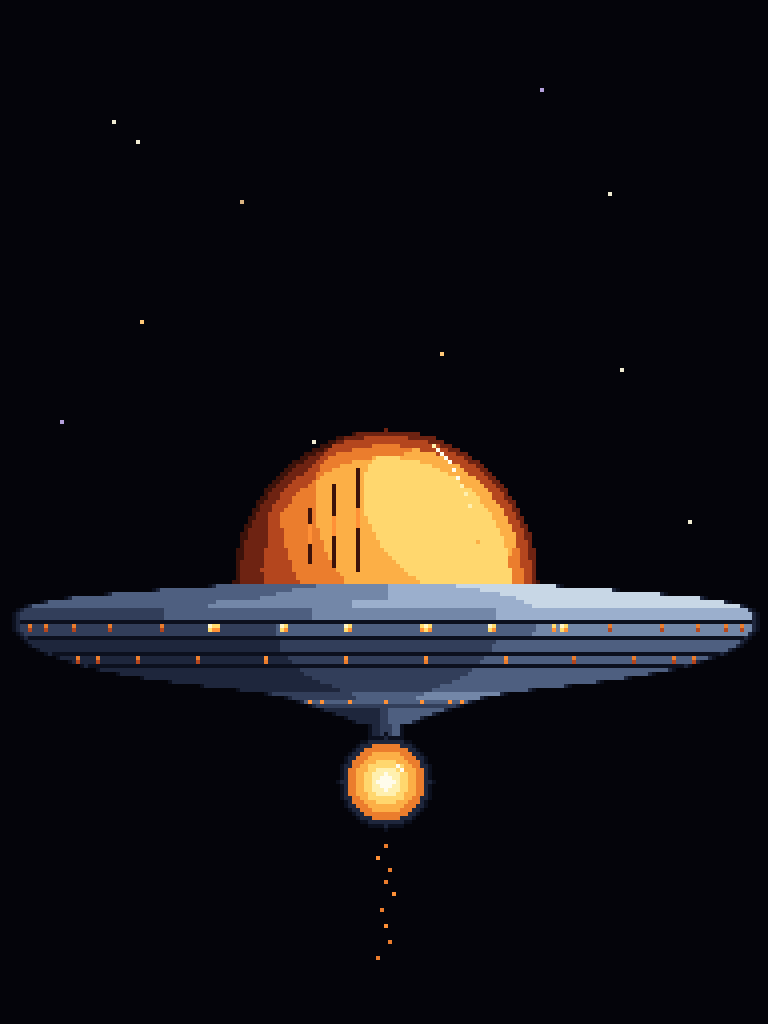
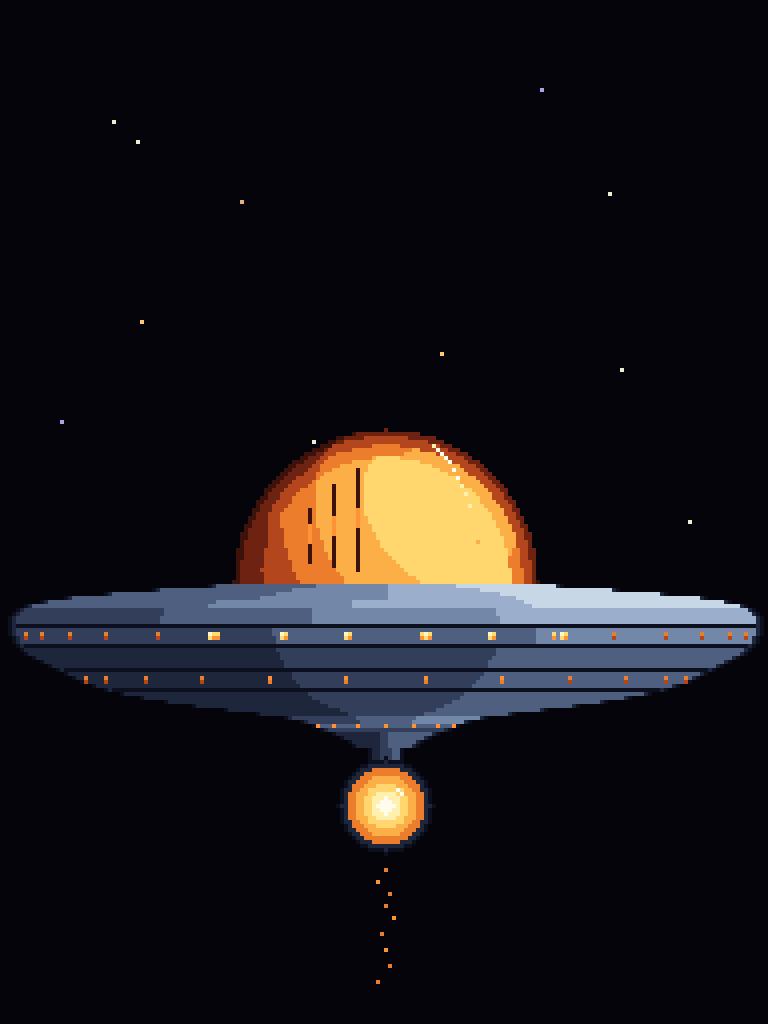
Make UFO disc 33 rows tall
Adds rows to body_hi, body_lights, body_dark, and body_lights2 bands so the
disc body (rim flare through taper) is 33 rows tall instead of 27. Light
rows are now 4 rows wide each with thicker seams between, giving the
saucer more visible stacked panel layers. Engine pod and sparks shifted
down accordingly.

Changed region(s): [[0.0, 0.5938, 1.0, 0.875]]

diff --git a/build_ufo.py b/build_ufo.py
@@ -138,7 +138,7 @@ for sx, ys, ye in slit_positions:
 
 # ── SAUCER ──────────────────────────────────────────
 saucer_rows = [
-    # y, hw, role
+    # y, hw, role  — 33 rows of disc (146-178), then lower panel/neck below
     (146, 44, 'rim_flare'),
     (147, 58, 'rim_flare'),
     (148, 70, 'rim_flare'),
@@ -147,33 +147,39 @@ saucer_rows = [
     (151, 90, 'rim_top'),
     (152, 92, 'body_hi'),
     (153, 93, 'body_hi'),
-    (154, 93, 'body_hi'),
-    (155, 93, 'seam'),
-    (156, 93, 'body_lights'),
-    (157, 93, 'body_lights'),
-    (158, 92, 'body_lights'),
-    (159, 91, 'seam'),
-    (160, 90, 'body_dark'),
-    (161, 89, 'body_dark'),
-    (162, 87, 'body_dark'),
-    (163, 85, 'seam'),
-    (164, 82, 'body_lights2'),
-    (165, 79, 'body_lights2'),
-    (166, 76, 'seam'),
-    (167, 72, 'taper'),
-    (168, 67, 'taper'),
-    (169, 61, 'taper'),
-    (170, 54, 'taper'),
-    (171, 46, 'taper'),
-    (172, 37, 'taper'),
-    (173, 30, 'lower_panel'),
-    (174, 25, 'lower_panel'),
-    (175, 22, 'lower_lights'),
-    (176, 19, 'lower_dark'),
-    (177, 16, 'neck'),
-    (178, 13, 'neck'),
-    (179, 10, 'neck'),
-    (180, 8,  'neck'),
+    (154, 94, 'body_hi'),
+    (155, 94, 'body_hi'),
+    (156, 94, 'seam'),
+    (157, 94, 'body_lights'),
+    (158, 94, 'body_lights'),
+    (159, 93, 'body_lights'),
+    (160, 93, 'body_lights'),
+    (161, 92, 'seam'),
+    (162, 91, 'body_dark'),
+    (163, 90, 'body_dark'),
+    (164, 88, 'body_dark'),
+    (165, 86, 'body_dark'),
+    (166, 84, 'body_dark'),
+    (167, 82, 'seam'),
+    (168, 80, 'body_lights2'),
+    (169, 78, 'body_lights2'),
+    (170, 76, 'body_lights2'),
+    (171, 73, 'body_lights2'),
+    (172, 70, 'seam'),
+    (173, 66, 'taper'),
+    (174, 61, 'taper'),
+    (175, 55, 'taper'),
+    (176, 48, 'taper'),
+    (177, 40, 'taper'),
+    (178, 32, 'taper'),
+    (179, 25, 'lower_panel'),
+    (180, 21, 'lower_panel'),
+    (181, 18, 'lower_lights'),
+    (182, 16, 'lower_dark'),
+    (183, 13, 'neck'),
+    (184, 11, 'neck'),
+    (185, 9,  'neck'),
+    (186, 8,  'neck'),
 ]
 
 def shade(role, dx, hw):
@@ -238,47 +244,47 @@ for y, hw, role in saucer_rows:
 n_lights = 16
 for i in range(n_lights):
     theta = math.pi * (i + 0.5) / n_lights - math.pi / 2  # -pi/2 .. +pi/2
-    lx = HCX + int(round(89 * math.sin(theta)))
+    lx = HCX + int(round(90 * math.sin(theta)))
     edge_dim = abs(math.sin(theta))
     if edge_dim < 0.6:
-        put(lx, 156, WIN_Y)
-        put(lx, 157, WIN_O)
+        put(lx, 158, WIN_Y)
+        put(lx, 159, WIN_O)
     else:
-        put(lx, 156, ORANGE)
-        put(lx, 157, RED)
+        put(lx, 158, ORANGE)
+        put(lx, 159, RED)
 
 # Brighter front-cluster windows (cabin lights) on main body row
 for dxc in (-44, -26, -10, 10, 26, 44):
     x = HCX + dxc
-    put(x, 156, WIN_W)
-    put(x + 1, 156, WIN_Y)
-    put(x, 157, WIN_Y)
-    put(x + 1, 157, WIN_O)
+    put(x, 158, WIN_W)
+    put(x + 1, 158, WIN_Y)
+    put(x, 159, WIN_Y)
+    put(x + 1, 159, WIN_O)
 
 # Second row of lights on the second body band
 n_mid = 12
 for i in range(n_mid):
     theta = math.pi * (i + 0.5) / n_mid - math.pi / 2
-    lx = HCX + int(round(78 * math.sin(theta)))
+    lx = HCX + int(round(76 * math.sin(theta)))
     edge_dim = abs(math.sin(theta))
     if edge_dim < 0.6:
-        put(lx, 164, WIN_O)
-        put(lx, 165, ORANGE)
+        put(lx, 169, WIN_O)
+        put(lx, 170, ORANGE)
     else:
-        put(lx, 164, ORANGE)
-        put(lx, 165, RED)
+        put(lx, 169, ORANGE)
+        put(lx, 170, RED)
 
 # Third row of small lights on lower panel band
 n_lower = 7
 for i in range(n_lower):
     theta = math.pi * (i + 0.5) / n_lower - math.pi / 2
-    lx = HCX + int(round(20 * math.sin(theta)))
-    put(lx, 175, WIN_O)
+    lx = HCX + int(round(17 * math.sin(theta)))
+    put(lx, 181, WIN_O)
 
 # ── ENGINE NECK + POD ───────────────────────────────
 # Tight neck just above the pod
-for y in range(181, 187):
-    hw = 4 if y < 185 else 6
+for y in range(187, 193):
+    hw = 4 if y < 191 else 6
     for dx in range(-hw, hw + 1):
         x = HCX + dx
         if abs(dx) == hw:    col = HULL_O
@@ -289,7 +295,7 @@ for y in range(181, 187):
 
 # Engine pod (small round sphere with glowing core)
 POD_CX = HCX
-POD_CY = 195
+POD_CY = 201
 POD_R = 12
 
 for y in range(POD_CY - POD_R, POD_CY + POD_R + 1):
@@ -313,15 +319,15 @@ put(POD_CX + 4, POD_CY - 3, SHINE)
 
 # ── FALLING SPARKS ──────────────────────────────────
 sparks = [
-    (HCX, 211, ORANGE),
-    (HCX - 2, 214, WIN_O),
-    (HCX + 1, 217, ORANGE),
-    (HCX,     220, ORANGE),
-    (HCX + 2, 223, WIN_O),
-    (HCX - 1, 227, ORANGE),
-    (HCX,     231, WIN_O),
-    (HCX + 1, 235, ORANGE),
-    (HCX - 2, 239, ORANGE),
+    (HCX, 217, ORANGE),
+    (HCX - 2, 220, WIN_O),
+    (HCX + 1, 223, ORANGE),
+    (HCX,     226, ORANGE),
+    (HCX + 2, 229, WIN_O),
+    (HCX - 1, 233, ORANGE),
+    (HCX,     237, WIN_O),
+    (HCX + 1, 241, ORANGE),
+    (HCX - 2, 245, ORANGE),
 ]
 for x, y, c in sparks:
     put(x, y, c)
